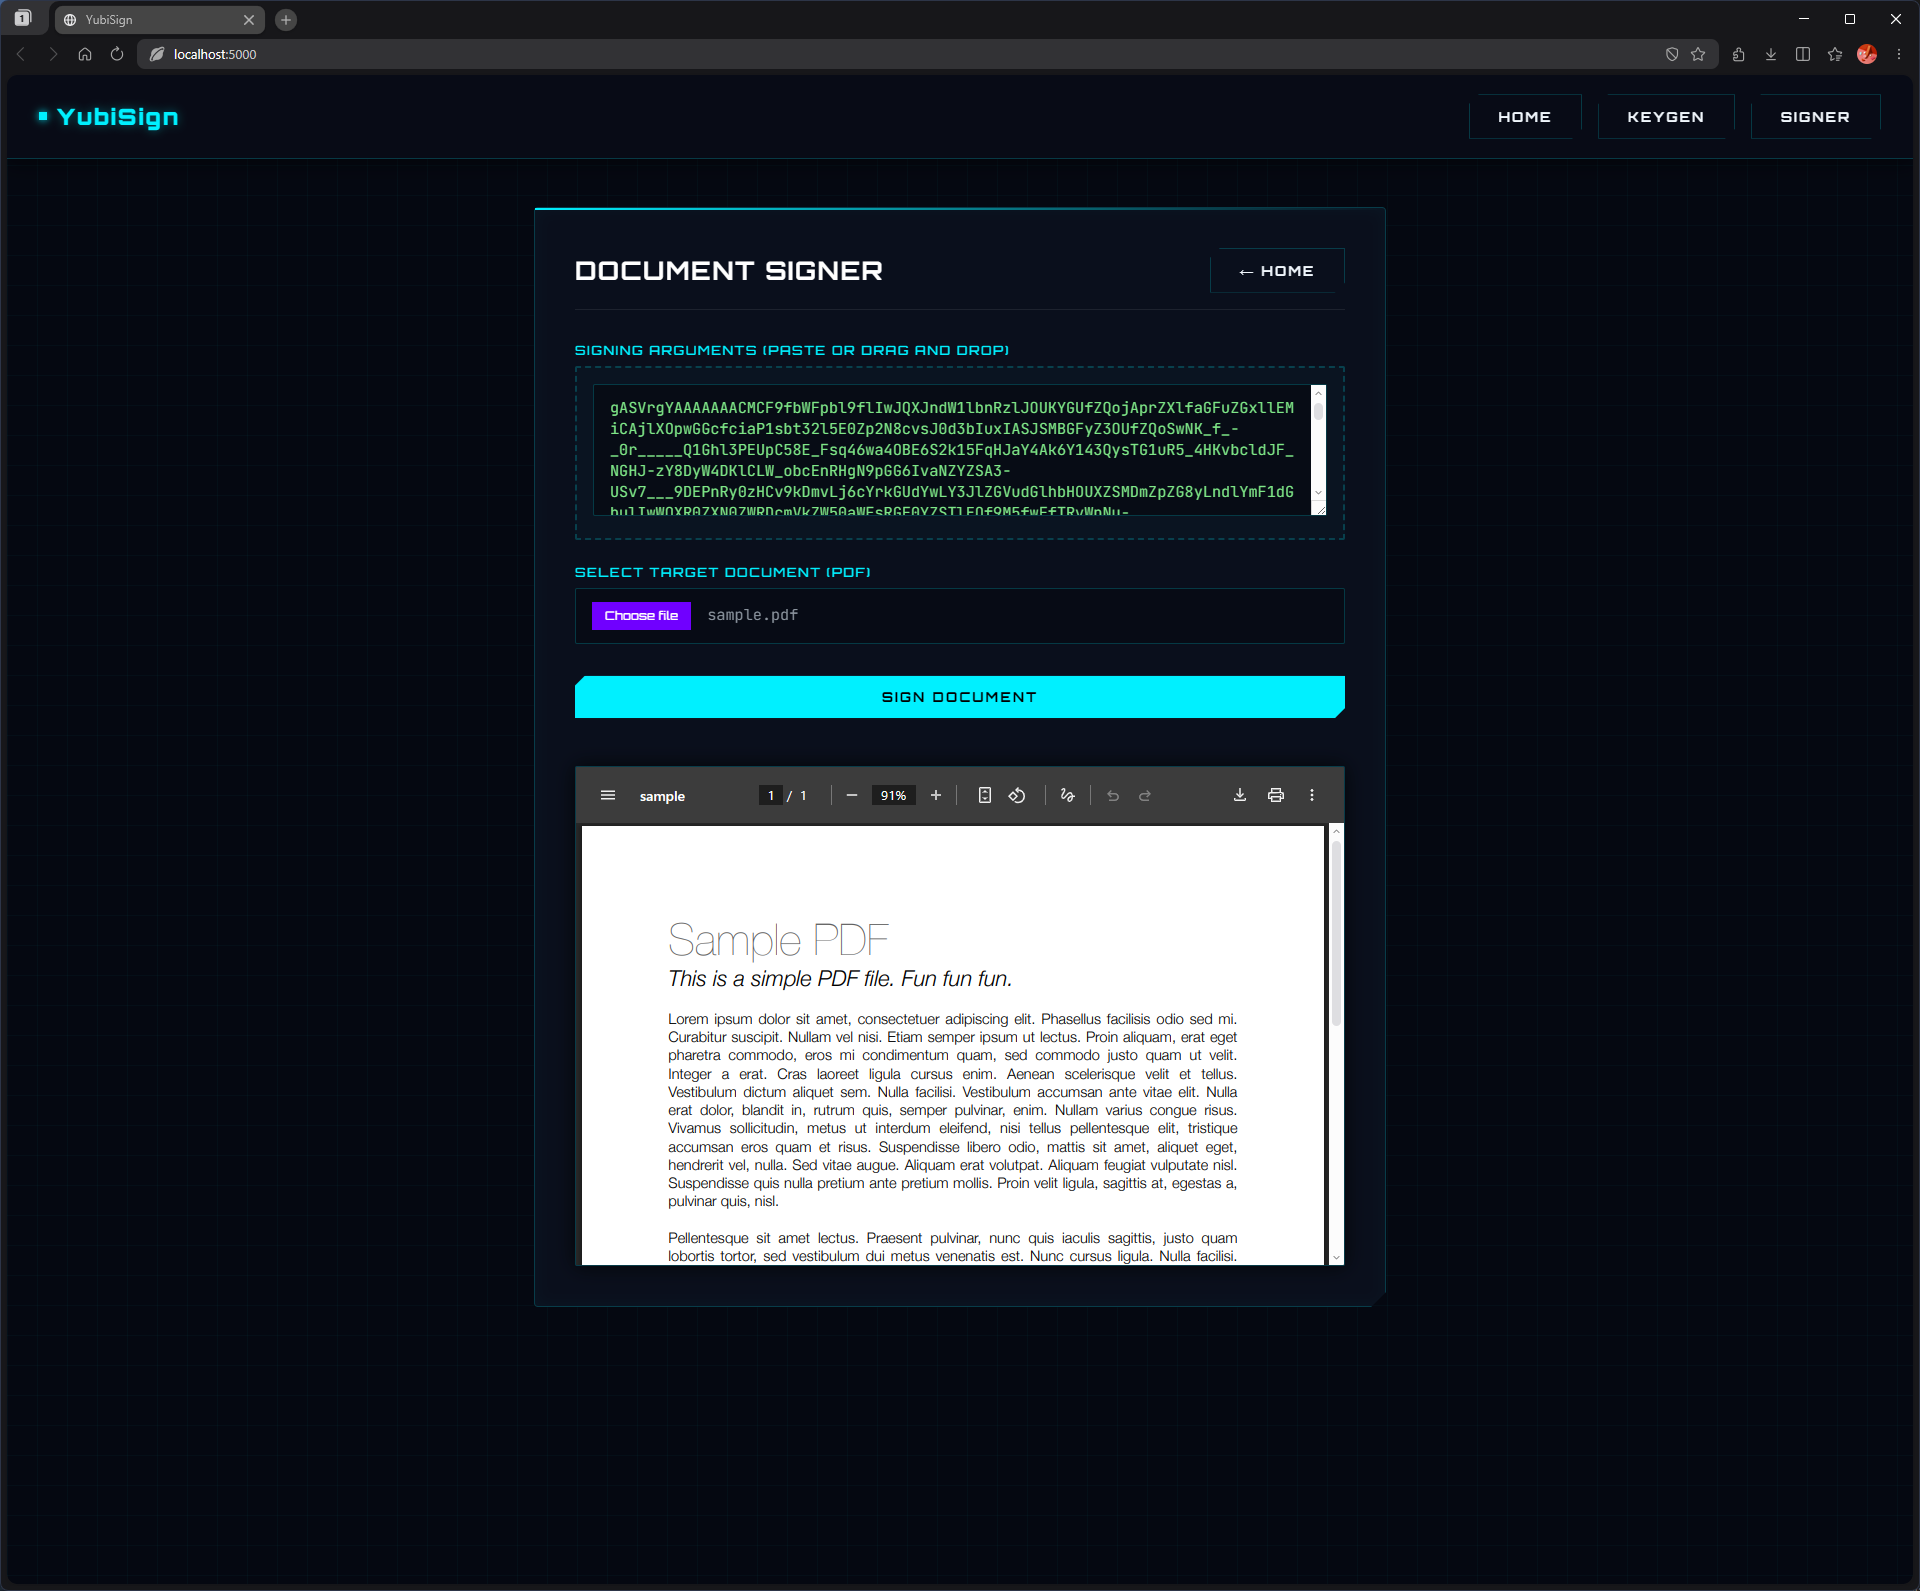
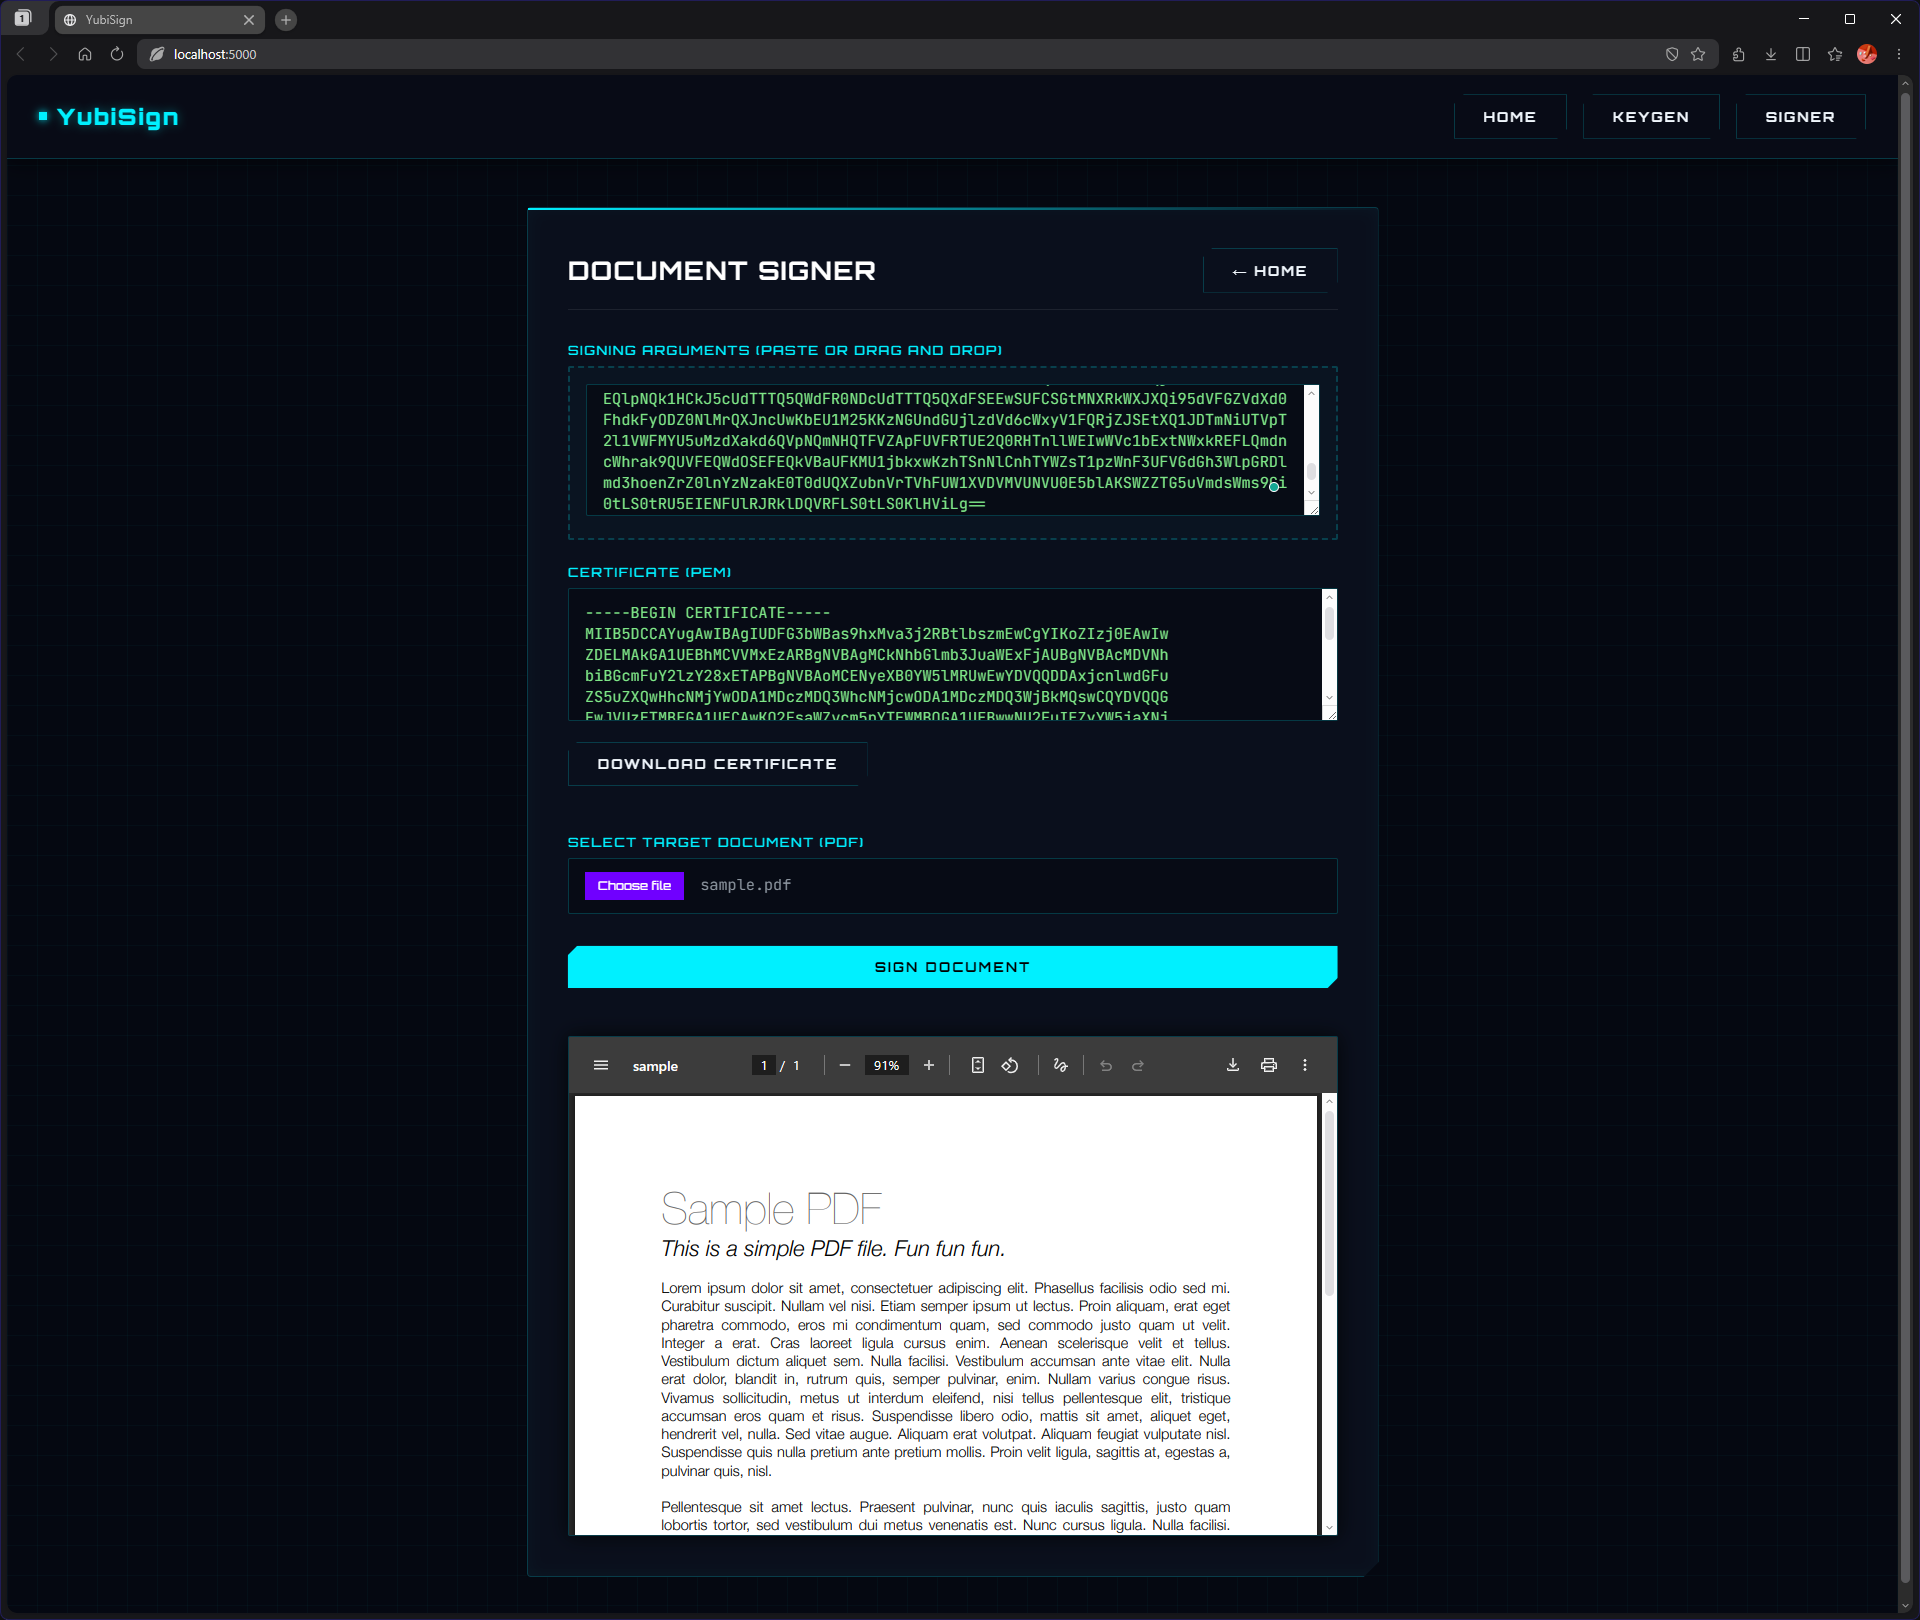
Validation added

diff --git a/templates/index.html b/templates/index.html
@@ -753,6 +753,7 @@
         if (args2Value.trim() === '') {
             document.getElementById('certsign').value = '';
             document.getElementById('certbtnsign').disabled = true;
+            document.getElementById("sign").disabled = true;
             return;
         }
         
@@ -777,10 +778,17 @@
             if (data && data.cert) {
                 document.getElementById('certsign').value = data.cert;
                 document.getElementById('certbtnsign').disabled = false;
+                const pdfinput = document.getElementById("pdfupload");
+                if (pdfinput.files.length>0)
+                {
+                    document.getElementById("sign").disabled = false;
+                }
             }
         })
         .catch(error => {
-            console.debug('Certificate fetch error:', error);
+            document.getElementById('certsign').value = '';
+            document.getElementById('certbtnsign').disabled = true;
+            document.getElementById("sign").disabled = true;
         });
     }
     
@@ -968,6 +976,7 @@
 
         const pdfinput = document.getElementById("pdfupload");
         const pdfviewer = document.getElementById("pdfviewer");
+        const currcert = document.getElementById("certsign");
 
         pdfinput.addEventListener('change', function(event) {
             const file = event.target.files[0];
@@ -975,9 +984,8 @@
                 const fileURL = URL.createObjectURL(file);
                 pdfviewer.src = fileURL;
                 pdfviewer.style.display = "block";
-                document.getElementById("sign").disabled = false;
-            } else {
-                alert("Select a PDF File");
+                if (currcert.value.trim() != "")
+                    document.getElementById("sign").disabled = false;
             }
         });
 
